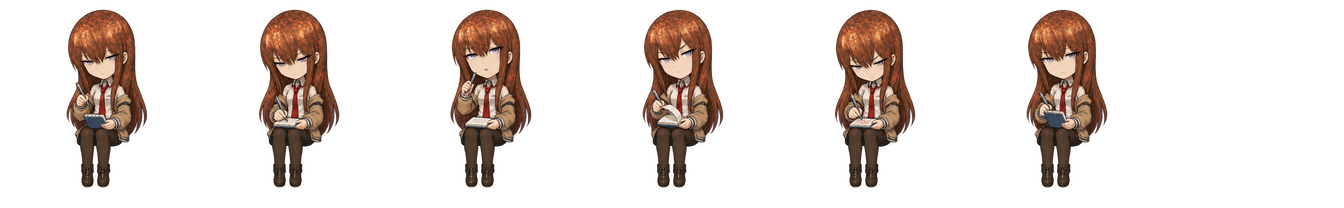
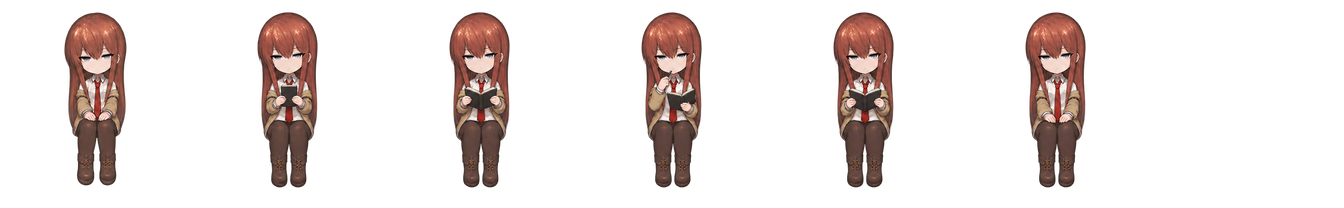
Release Desk Atelier 1.10.15 with refined seated artwork

diff --git a/tests/check-window-edge-art.py b/tests/check-window-edge-art.py
@@ -40,14 +40,40 @@ for role in ('hitori','rem','kurisu','mutsumi','mutsumi-stage','steve'):
  a=Image.open(assets/f'window-rest-{role}.png').convert('RGBA')
  assert a.size==(1344,208)
  seen=set()
+ seat_ends=[]
  for i in range(6):
     c=a.crop((i*192,0,(i+1)*192,208));mask=c.getchannel('A').point(lambda x:255 if x>127 else 0)
     p=mask.getbbox()
     assert p and min(p[0],p[1],192-p[2],208-p[3])>=2
     assert mask.crop((75,128,117,139)).getbbox()
     assert mask.crop((64,146,128,183)).getbbox()
+    seat_ends.append(p[3])
     seen.add(sha256(c.tobytes()).digest())
  assert len(seen)==6,role
+ if role=='kurisu':
+    assert 182<=seat_ends[0]<=186,(role,seat_ends,'leg length relative to accepted 1.10.12')
+    # Approved 1.10.12 neutral has 1237 opaque pixels from y=145 down.
+    neutral_leg_pixels=(np.asarray(a.getchannel('A').crop((0,145,192,208)))>128).sum()
+    assert abs(neutral_leg_pixels-1237)<=95,(role,neutral_leg_pixels,'leg/boot width relative to accepted 1.10.12')
+    assert max(seat_ends)-min(seat_ends)<=5,(role,seat_ends,'quiet poses restore old leg length')
+    def slim_outline(pose,limit):
+      a=np.asarray(pose.getchannel('A'))>128
+      def width(y):
+         xs=np.flatnonzero(a[y])
+         return int(np.ptp(xs)+1) if len(xs) else 0
+      spans=[width(y) for y in range(103,125)]
+      shoulder=max(width(y) for y in range(81,94))
+      assert max(spans)<=limit and max(spans)<=1.34*shoulder,(max(spans),shoulder,'seat bulge')
+    for i in range(6):slim_outline(a.crop((192*i,0,192*(i+1),208)),66)
+    edge=Image.open(assets/'window-edge-kurisu.png').convert('RGBA')
+    for j in range(6):
+       pose=edge.crop((192*j,0,192*(j+1),208))
+       slim_outline(pose,66)
+       y=pose.getchannel('A').point(lambda v:255 if v>127 else 0).getbbox()[3]
+       assert abs(y-seat_ends[0])<=3,(role,j,y,'notebook pose restores old leg length')
+ if role in ('rem','kurisu'):
+    target=sorted(seat_ends[1:])[2]
+    assert abs(seat_ends[0]-target)<=3,(role,seat_ends,'neutral legs must match the other seated proportions')
 print('36 verified quiet window cels on stable seat anchors')
 for role in ('hitori','rem','kurisu','mutsumi','mutsumi-stage'):
  for kind,n in (('lounge',28),('swing',4)):
@@ -88,12 +114,27 @@ for role in ('hitori','rem','kurisu','mutsumi','mutsumi-stage'):
       original=Image.open(assets/f'window-rest-{role}.png').convert('RGBA').crop((0,0,192,208))
       neutral=np.asarray(original.getchannel('A'))>128
       for i,top in enumerate(still):
-        assert (top&neutral[:127]).sum()/(top|neutral[:127]).sum()>=.98,(role,i,'torso drift crossing from actual neutral')
+        assert (top&neutral[:127]).sum()/(top|neutral[:127]).sum()>=(.97 if role=='kurisu' else .98),(role,i,'torso drift crossing from actual neutral')
+        if role=='kurisu':
+          head=np.asarray(np.where(top[:70])).mean(1)
+          head0=np.asarray(np.where(neutral[:70])).mean(1)
+          assert np.max(np.abs(head-head0))<=1,(role,i,'head shifted during foot swing')
       for j in range(2):
         region=slice(0,96) if j==0 else slice(96,192)
         other=slice(96,192) if j==0 else slice(0,96)
         ease,peak=[a^neutral[150:] for a in shoes[j*2:j*2+2]]
         assert ease[:,region].sum()>=85 and peak[:,region].sum()>ease[:,region].sum()+50,(role,j,'no graduated toe swing')
-        assert ease[:,other].sum()<=45 and peak[:,other].sum()<=45,(role,j,'the other shoe moved')
+        if role=='kurisu':
+          # Independently drawn shoe outlines can change thickness; their
+          # contact height and center must still be fixed while the other lifts.
+          def center(foot):
+             yy,xx=np.where(foot[5:,other])
+             return np.array([yy.mean(),xx.mean()])
+          anchor=center(neutral[150:])
+          assert ease[:,other].sum()<=100 and peak[:,other].sum()<=100,(role,j,'supporting foot shape changed')
+          for cel in shoes[j*2:j*2+2]:
+             assert np.max(np.abs(center(cel)-anchor))<=1.5,(role,j,'supporting foot moved')
+        else:
+          assert ease[:,other].sum()<=45 and peak[:,other].sum()<=45,(role,j,'the other shoe moved')
 assert not (assets/'window-lounge-steve.png').exists() and not (assets/'window-swing-steve.png').exists()
 print('140 lying/prone and transition cels, 20 individually drawn seated easing cels verified')

diff --git a/src/Studio.cs b/src/Studio.cs
@@ -13,9 +13,9 @@ using System.Windows.Threading;
 [assembly: AssemblyTitle("窗边手记")]
 [assembly: AssemblyProduct("窗边手记 · Desk Atelier")]
 [assembly: AssemblyDescription("离线 Windows 桌面伙伴")]
-[assembly: AssemblyVersion("1.10.11.0")]
-[assembly: AssemblyFileVersion("1.10.11.0")]
-[assembly: AssemblyInformationalVersion("1.10.11")]
+[assembly: AssemblyVersion("1.10.15.0")]
+[assembly: AssemblyFileVersion("1.10.15.0")]
+[assembly: AssemblyInformationalVersion("1.10.15")]
 
 namespace DeskMate
 {
@@ -39,7 +39,7 @@ namespace DeskMate
             try
             {
 #if DESKATELIER_PREVIEW
-                string data=Path.Combine(Environment.GetFolderPath(Environment.SpecialFolder.LocalApplicationData),"DeskAtelier-WindowPreview-121");
+                string data=Path.Combine(Environment.GetFolderPath(Environment.SpecialFolder.LocalApplicationData),"DeskAtelier-WindowPreview-125");
                 Environment.SetEnvironmentVariable("DESKATELIER_DATA",data);
 #else
                 string data=Environment.GetEnvironmentVariable("DESKATELIER_DATA");

diff --git a/README.md b/README.md
@@ -88,7 +88,7 @@
 
 ![若叶睦校音、翻谱与照看黄瓜的动作](docs/mutsumi.gif)
 
-后藤独（波奇）来自《孤独摇滚！》。她会低头练电吉他、藏拨片，听歌时也会拿起琴。点「伙伴设置 → 后藤独」就能见到她，也可以从 [1.9.0 发行页](https://github.com/XiaoLiZiREAL/desk-atelier/releases/tag/v1.9.0) 单独下载角色包。[后藤独的素材](art/hitori/)
+后藤独（波奇）来自《孤独摇滚！》。她会低头练电吉他、藏拨片，听歌时也会拿起琴。点「伙伴设置 → 后藤独」就能见到她，也可以从 [最新发行页](https://github.com/XiaoLiZiREAL/desk-atelier/releases/latest) 的 Assets 单独下载角色包。[后藤独的素材](art/hitori/)
 
 ![后藤独的练琴、喝茶和跟唱动作](docs/hitori.gif)
 
